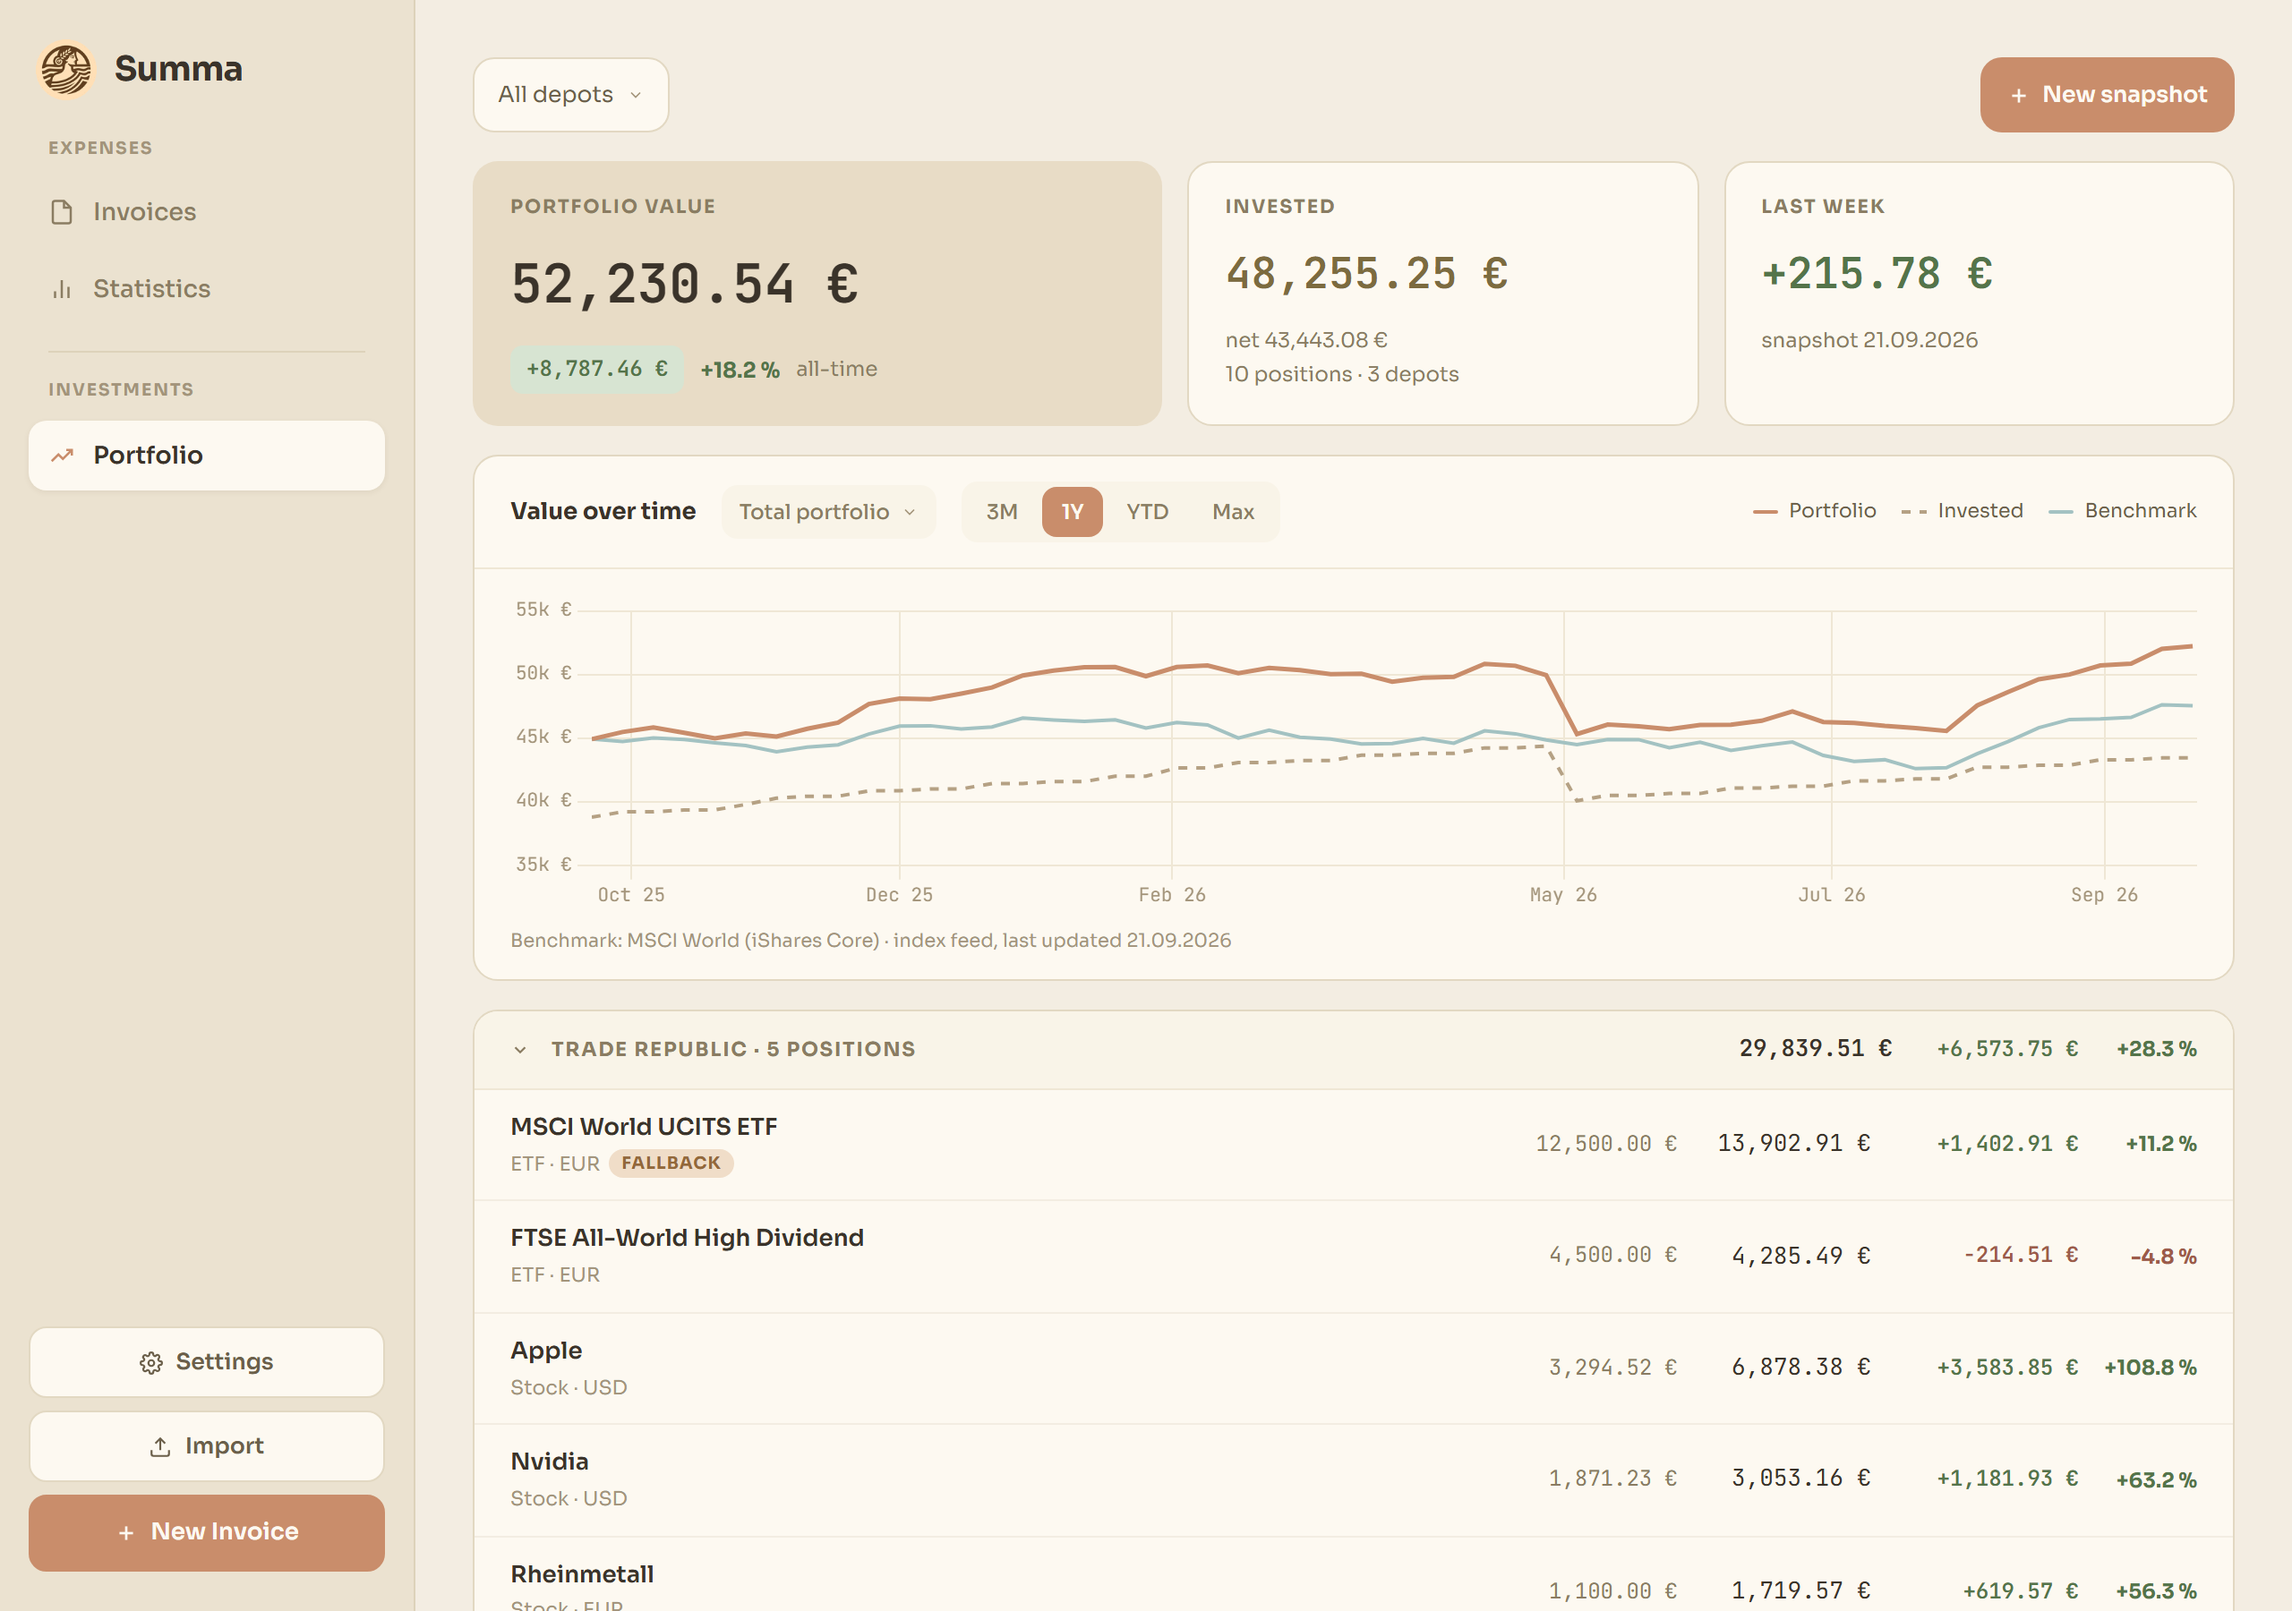
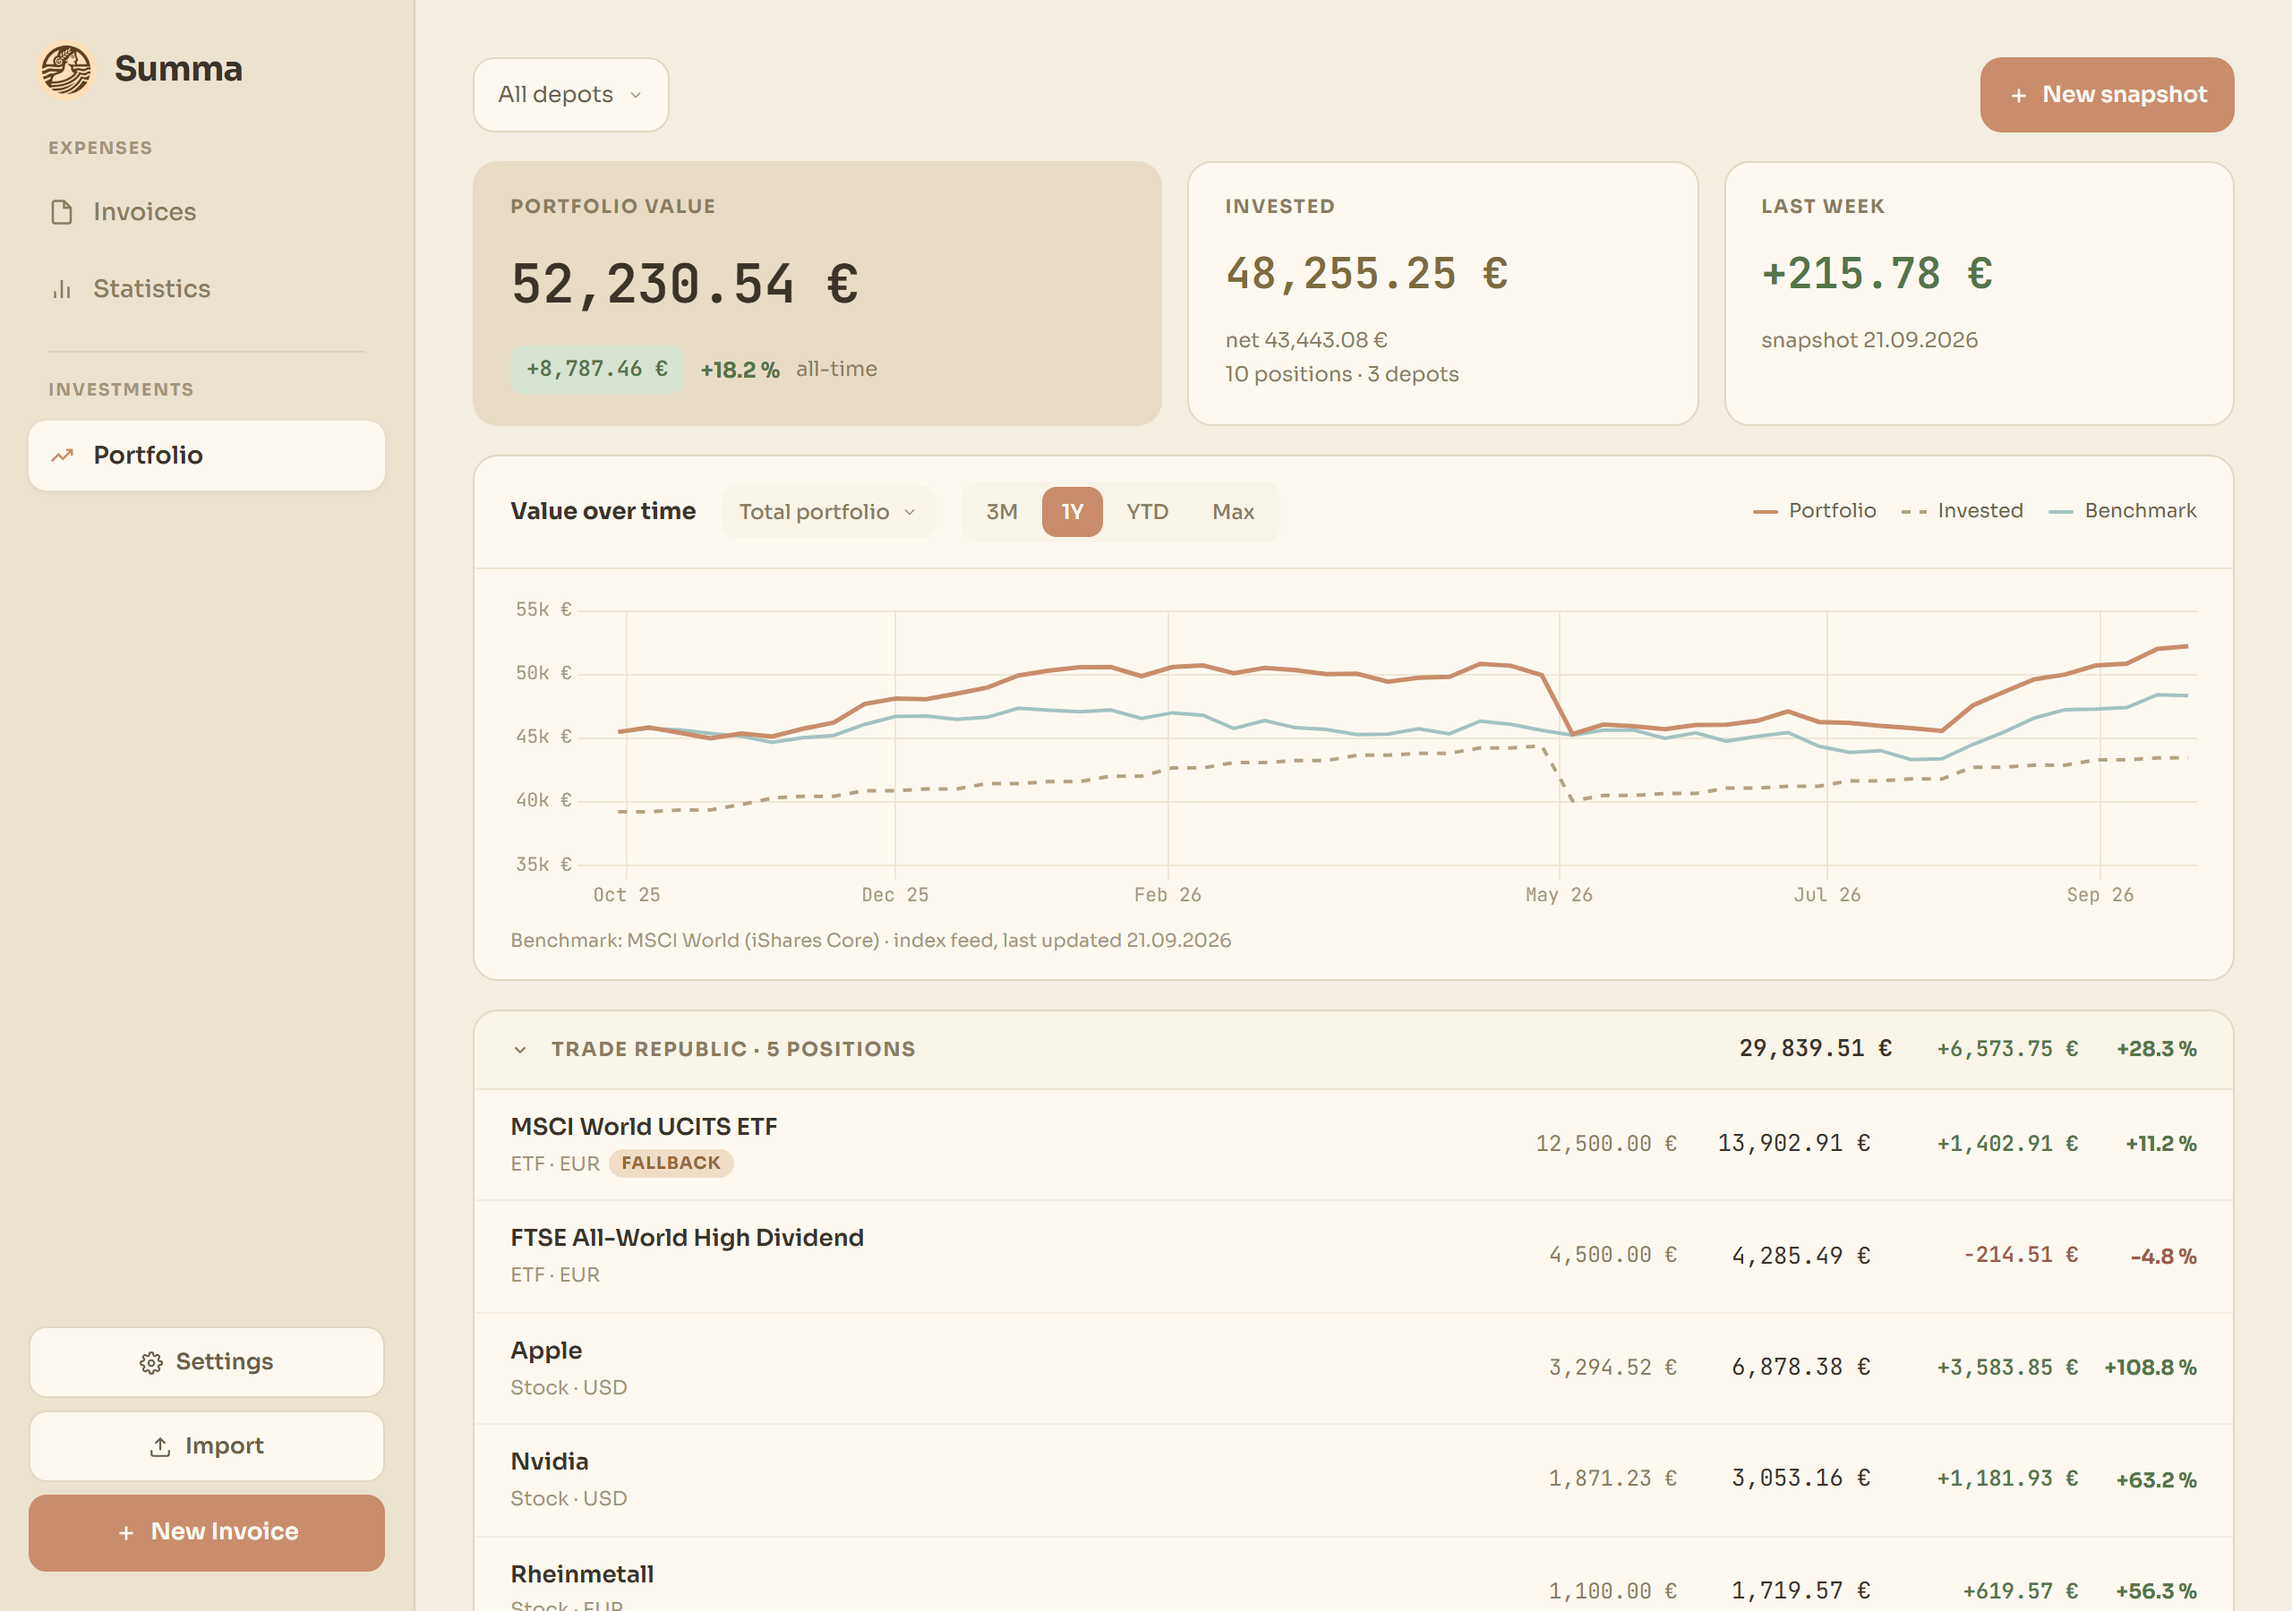
Compress missed screenshot and make screenshot script fail when compressing fails

diff --git a/docs/screenshots/README.md b/docs/screenshots/README.md
@@ -62,5 +62,6 @@ The committed PNGs are quantized to a 256-colour palette, which is visually
 identical for this flat-coloured UI at about a third of the size. The run does
 that itself with `pngquant` or ImageMagick; when neither is installed but
 `oxipng` is, it falls back to a lossless recompress instead, which keeps every
-colour and saves correspondingly less. With none of the three installed it just
-tells you.
+colour and saves correspondingly less. At least one of the three tools must be
+installed: without a successful compression pass, the run fails and leaves the
+committed screenshots untouched.
